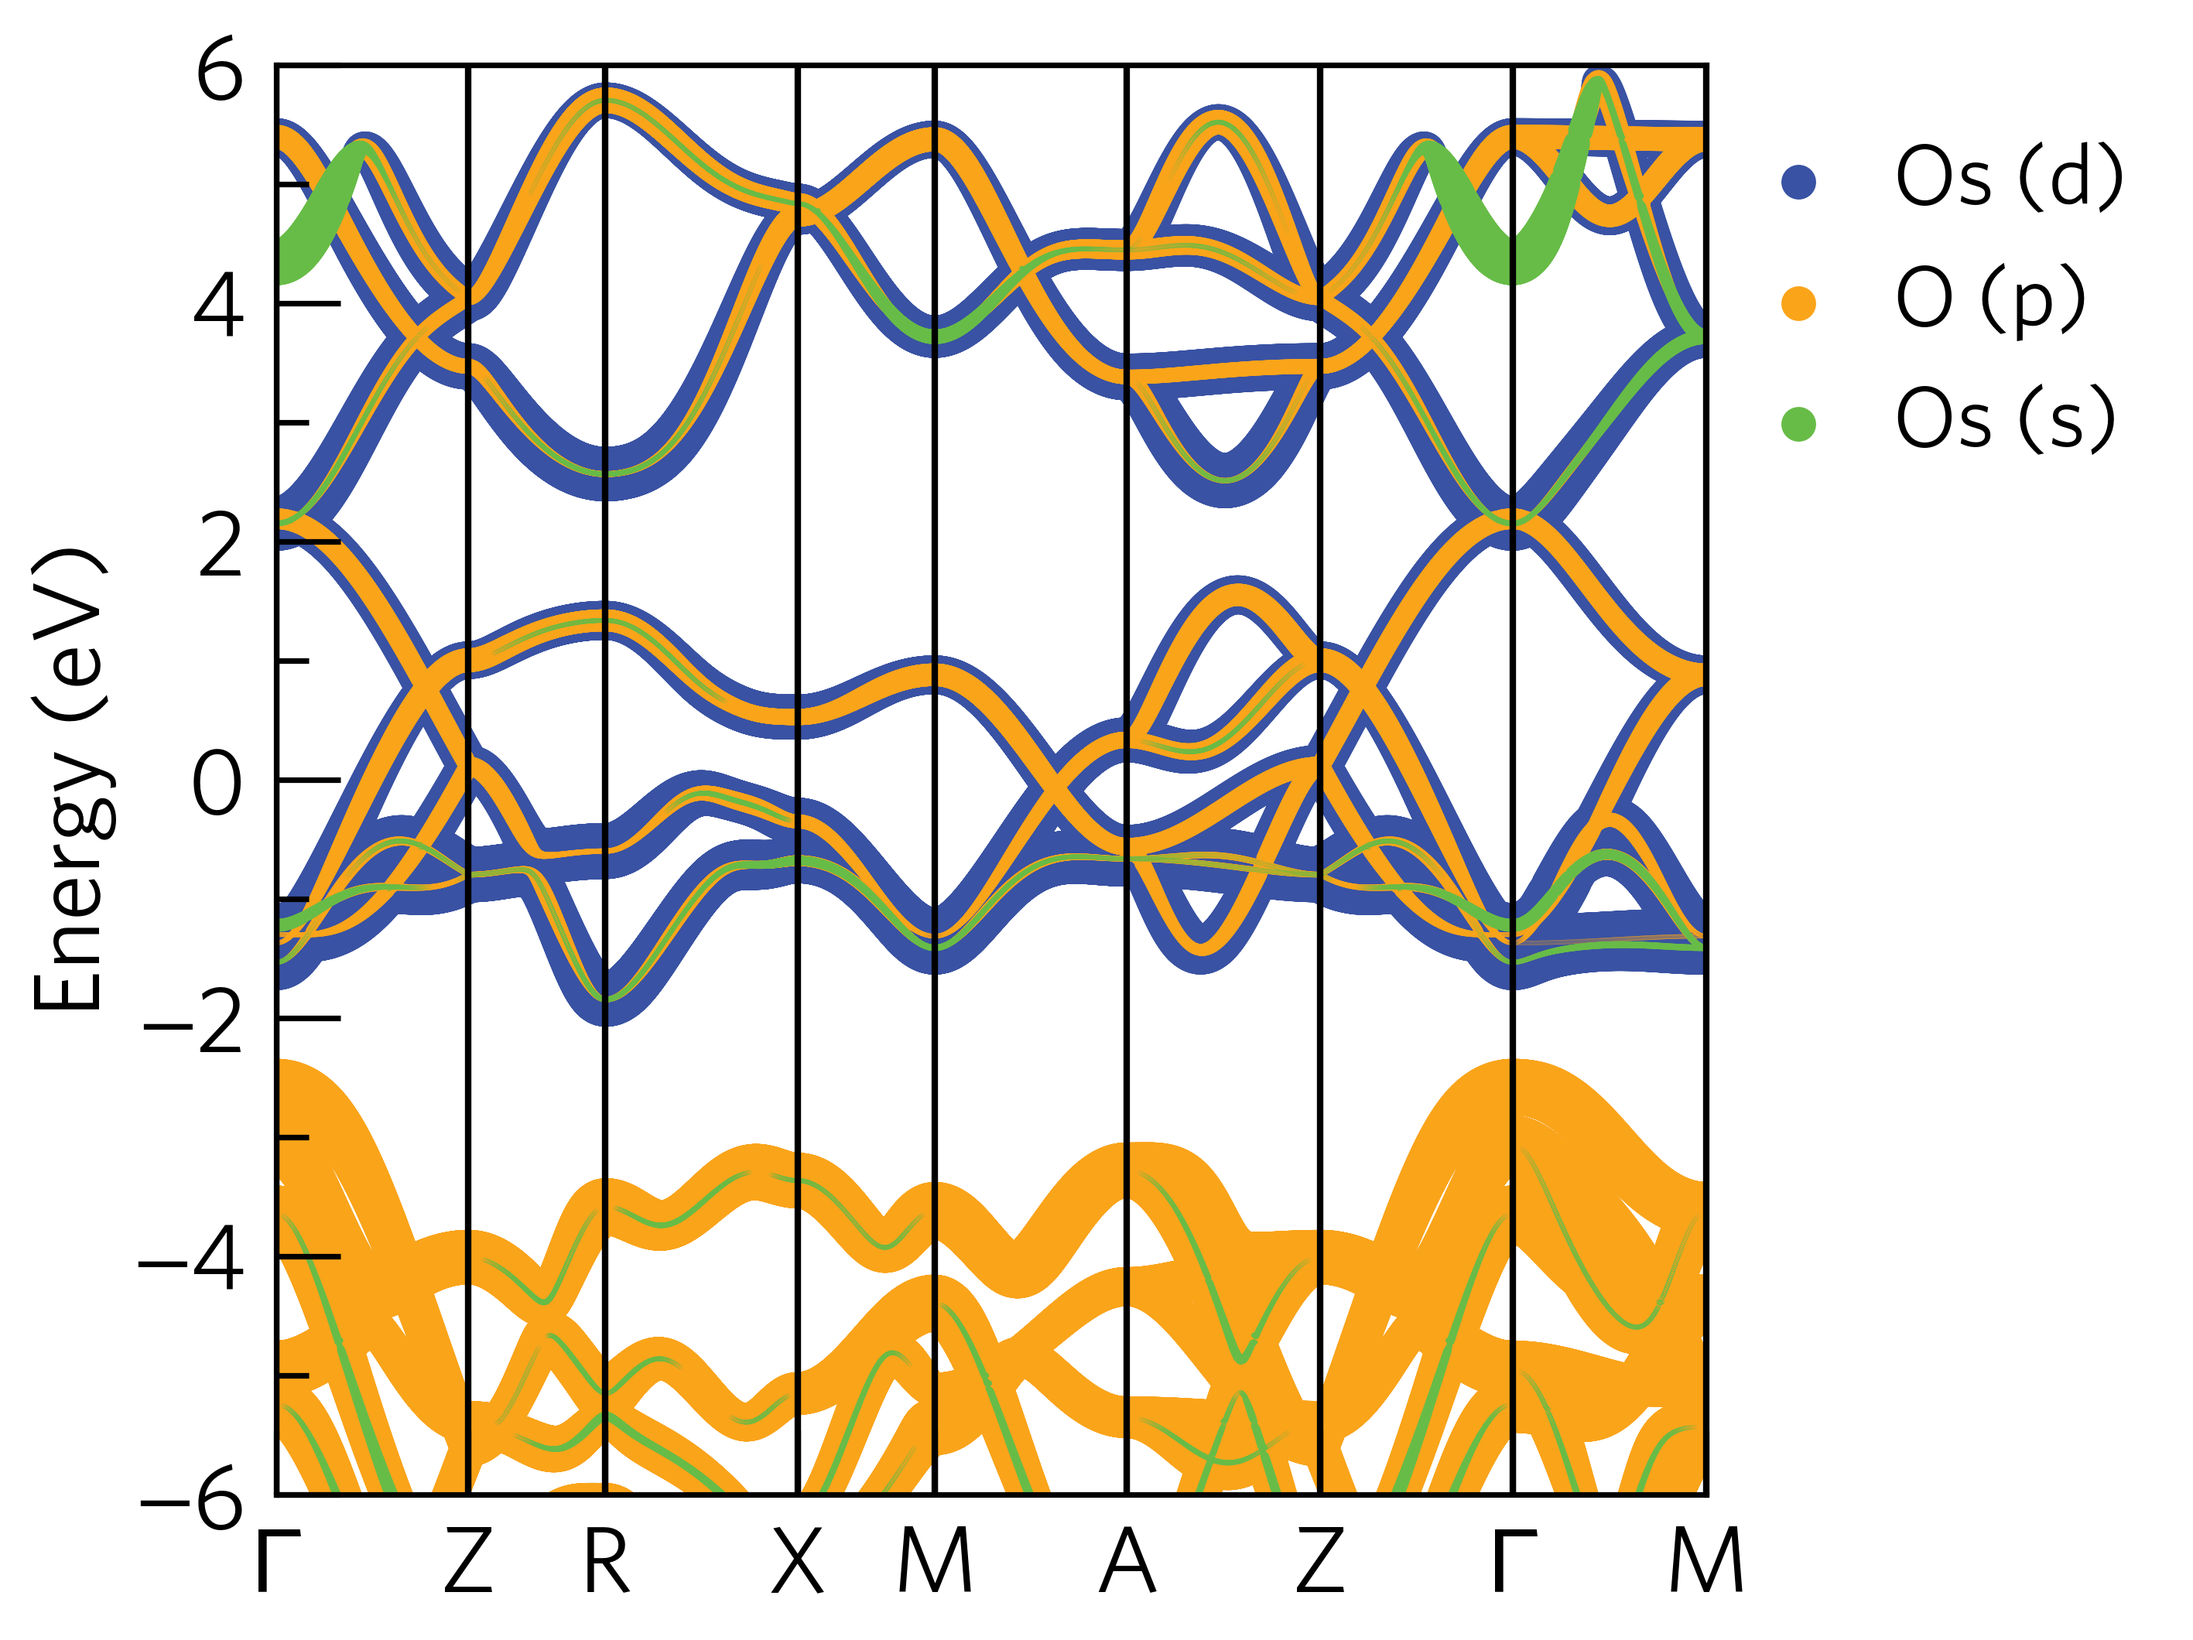
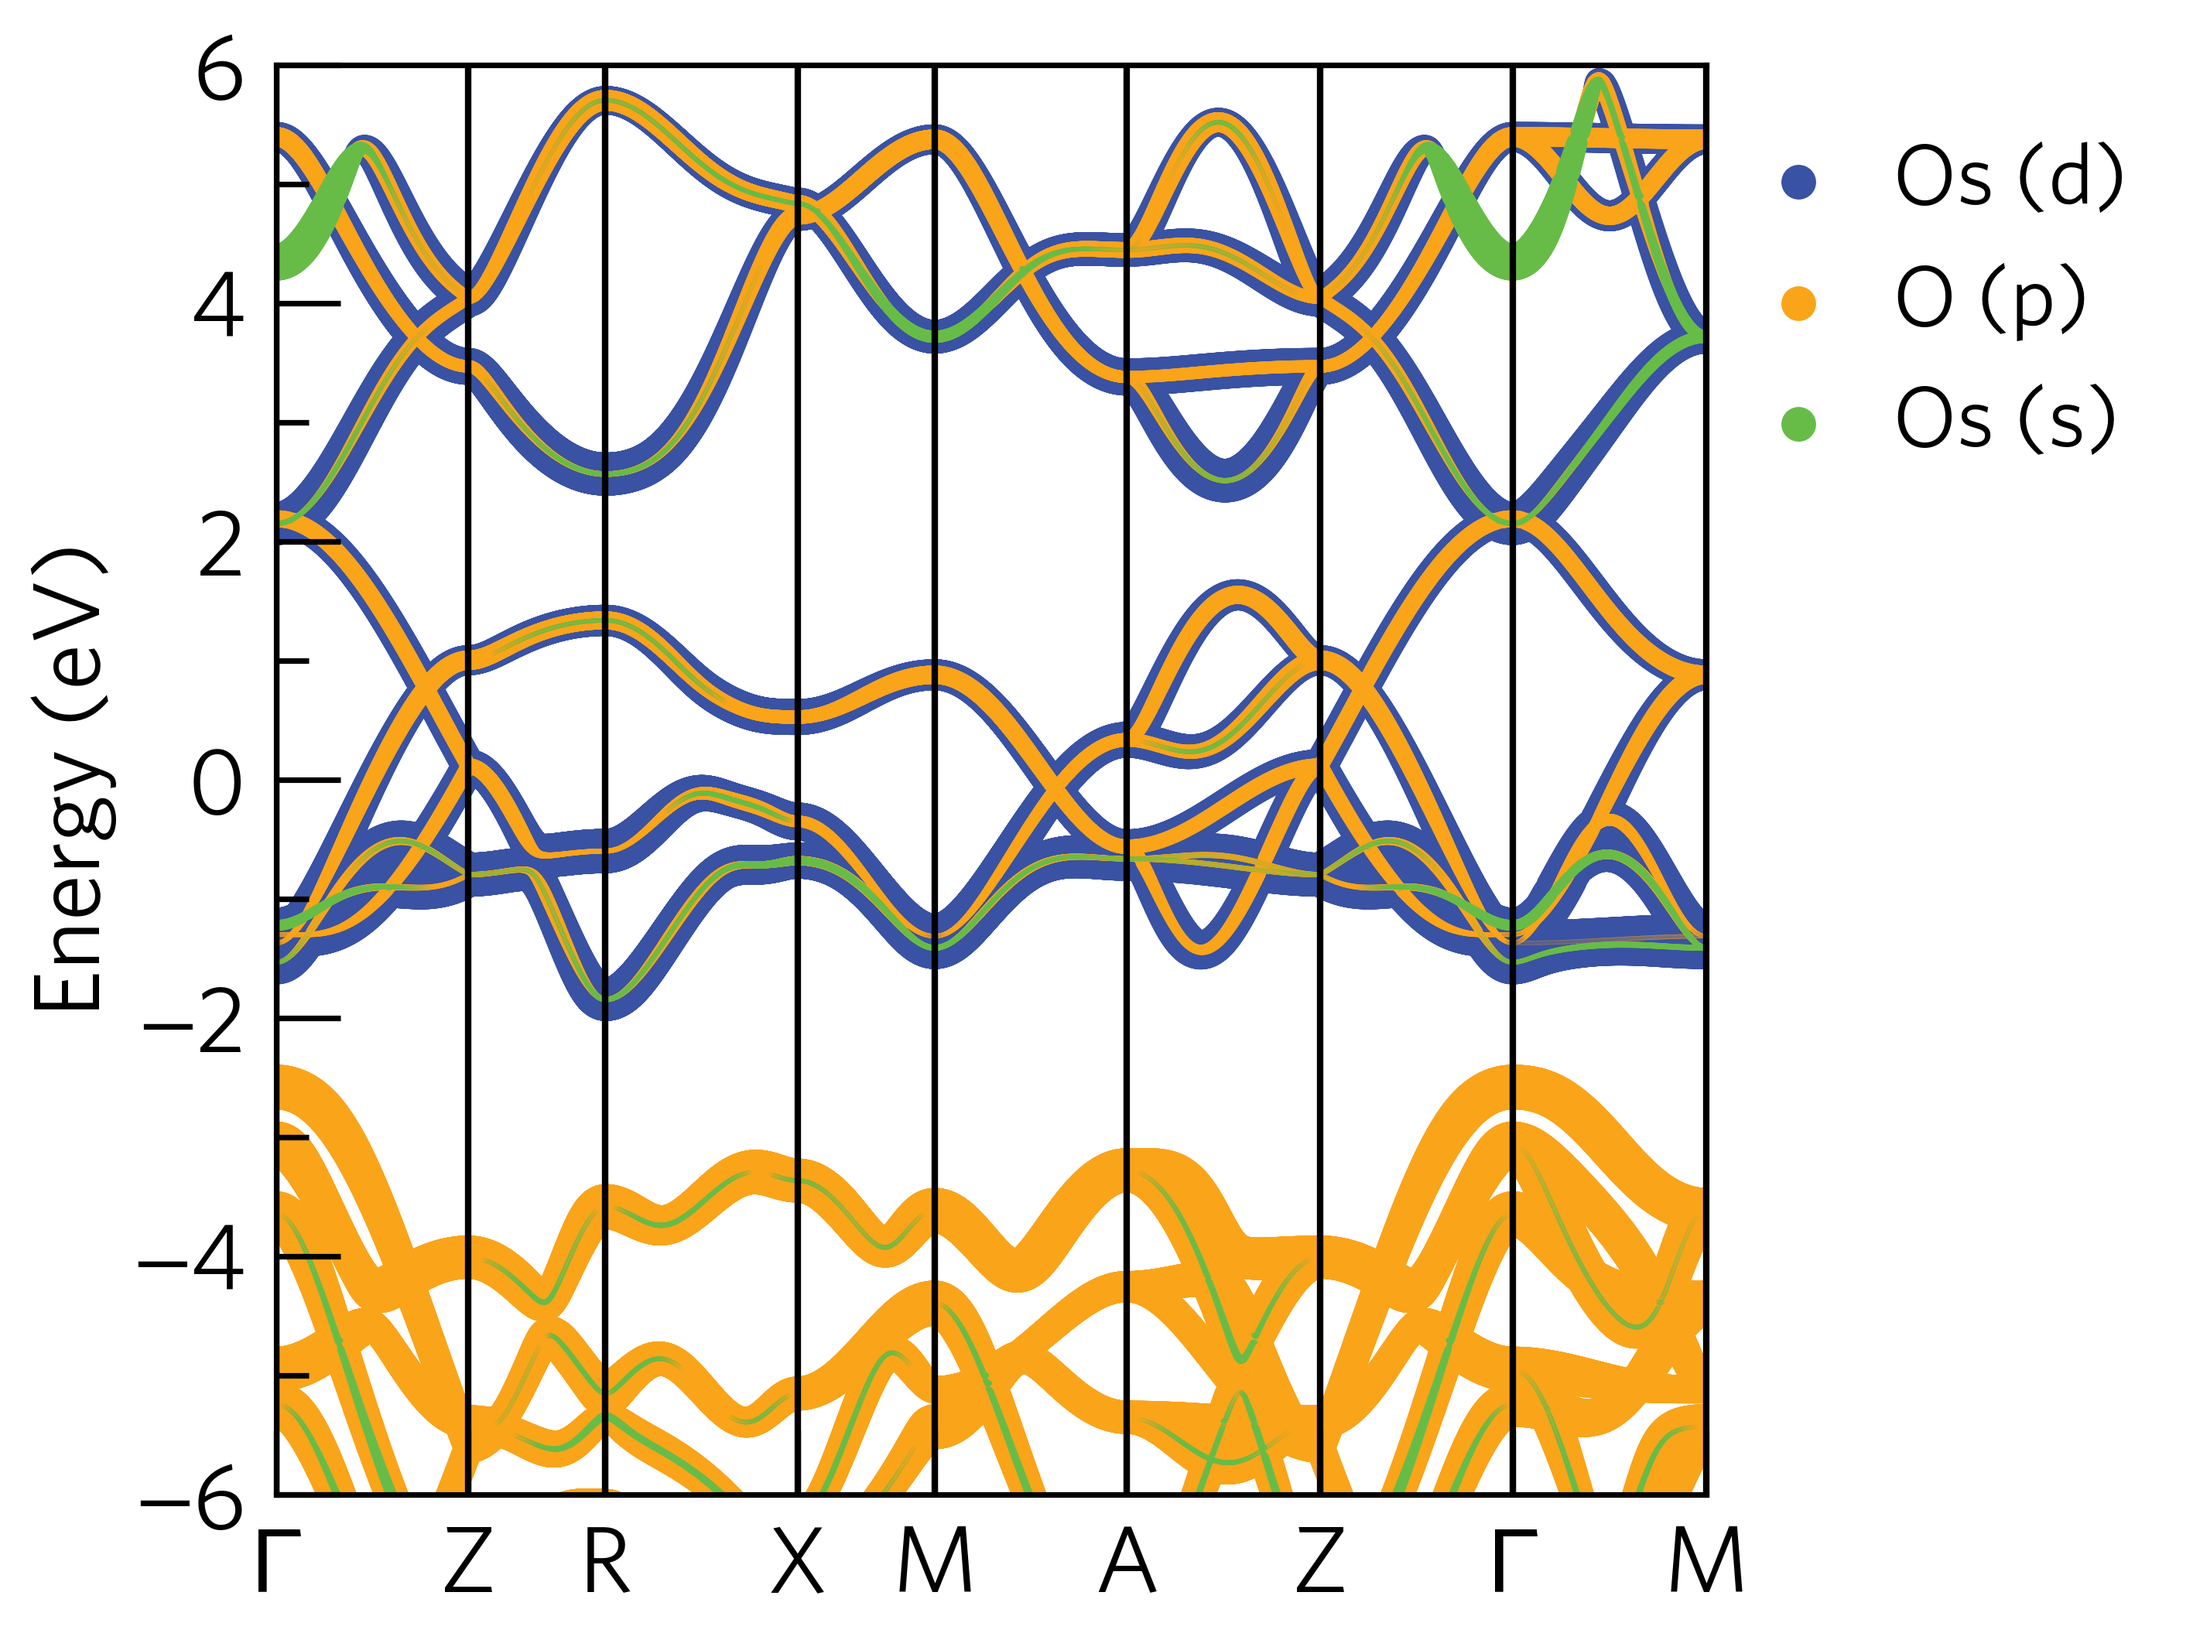
DOC: Fix typos in bandplot tutorial

diff --git a/docs/source/vaspy-bandplot.rst b/docs/source/vaspy-bandplot.rst
@@ -120,7 +120,7 @@ The syntax for specifying which orbitals to project is as follows:
 For example, to project the Sn s orbitals, the Sn p orbitals and a combined contribution from all the I orbitals,
 the command would be::
 
-    vaspy-dosplot --project Sn.s,Sn.p,I
+    vaspy-bandplot --project Sn.s,Sn.p,I
 
 For projected plots, the band structure and the projections are interpolated to ensure the bands are
 smooth. The degree of interpolation can be controlled by the ``--interpolate-factor`` option.
@@ -138,7 +138,7 @@ The order of the elemenets/orbitals determines which colour is used for each sel
 For example, if the following command is run in the ``vaspy/tests/data/Cs2SnI6/bandstructure`` directory,
 the output should look like::
 
-    vaspy-dosplot --project Sn.s,Sn.p,I --ymin -4 --width 4
+    vaspy-bandplot --project Sn.s,Sn.p,I --ymin -4 --width 4
 
 .. image:: figures/band_projected_rgb.png
    :height: 400px
@@ -153,7 +153,7 @@ an unlimited number of element/orbital contributions.
 For example, if the following command is run in the ``vaspy/tests/data/OsO2/bandstructure`` directory,
 the output should look like::
 
-    vaspy-dosplot --project Os.d,O.p,Os.s
+    vaspy-bandplot --project Os.d,O.p,Os.s --mode stacked --circle-size 90
 
 .. image:: figures/band_projected_stacked.png
    :height: 400px
